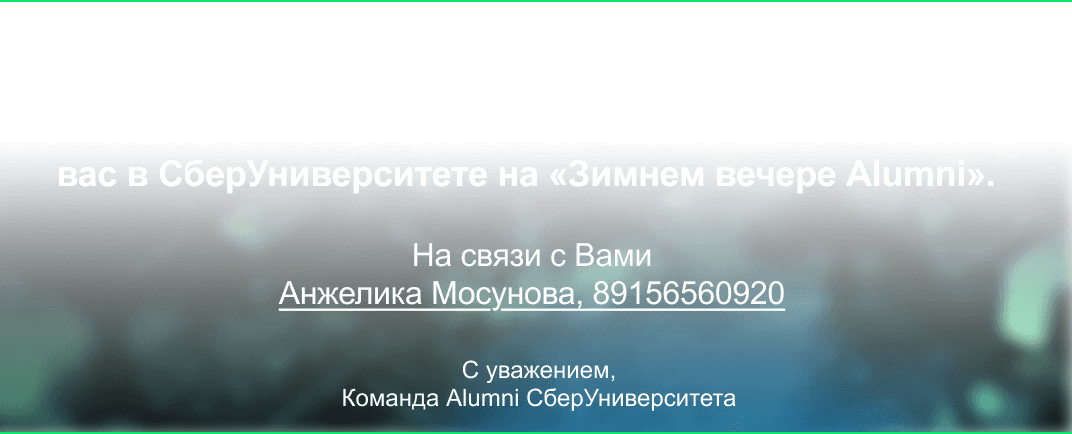
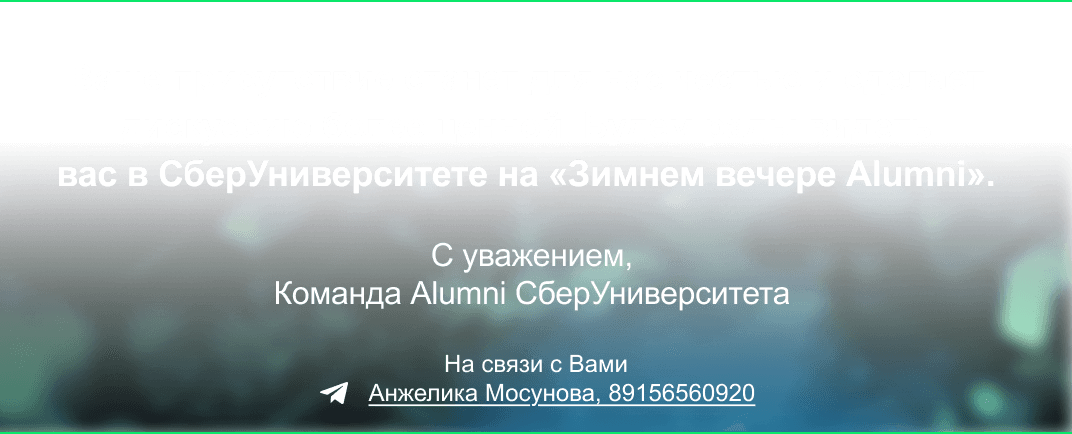
change sberuniversity-2

Changed region(s): [[0.2463, 0.5392, 0.7388, 0.7189], [0.3078, 0.8088, 0.708, 1.0], [0.8619, 0.9885, 0.8927, 1.0]]

diff --git a/sberuniversity-2/Зимняя встреча.html b/sberuniversity-2/Зимняя встреча.html
@@ -154,7 +154,7 @@
                                         <tbody>
                                         <tr>
                                             <td style="width:536px;">
-                                                <img alt="Вас ждут: Знакомство с понятием «долгие цели», концептуальная основа понятия и практические подходы к их формулированию. Работа над профессиональными долгими целями под руководством Марка Кукушкина, корпоративного антрополога, тренера, консультанта, коуча. Профессиональное взаимодействие и укрепление деловых связей в кругу единомышленников, топ-руководителей Сбера и компаний-партнёров. Выступление Татьяны Покровской, главного тренера сборной России по синхронному плаванию, вице-президента Федерации синхронного плавания России (под её руководством сборная России с 1999 года лидирует во всех соревнованиях, в которых принимает участие). Опыт участия в передовом формате бизнес-взаимодействия (во второй день)" height="auto" src="https://cp.unisender.com/ru/user_file?resource=images&user_id=5608985&name=sber-2-content-img-1.png" style="border:0;display:block;outline:none;text-decoration:none;height:auto;width:100%;font-size:13px;" width="536" />
+                                                <img alt="Вас ждут: Знакомство с понятием «долгие цели», концептуальная основа понятия и практические подходы к их формулированию. Работа над персональными долгими целями под руководством Марка Кукушкина, корпоративного антрополога, тренера, консультанта, коуча. Профессиональное взаимодействие и укрепление деловых связей в кругу единомышленников, топ-руководителей Сбера и компаний-партнёров. Выступление Татьяны Покровской, главного тренера сборной России по синхронному плаванию, вице-президента Федерации синхронного плавания России (под её руководством сборная России с 1999 года лидирует во всех соревнованиях, в которых принимает участие). Опыт участия в передовом формате бизнес-взаимодействия (во второй день)" height="auto" src="https://cp.unisender.com/ru/user_file?resource=images&user_id=5608985&name=sber-2-content-img-1.png" style="border:0;display:block;outline:none;text-decoration:none;height:auto;width:100%;font-size:13px;" width="536" />
                                             </td>
                                         </tr>
                                         </tbody>
@@ -167,7 +167,7 @@
                                         <tbody>
                                         <tr>
                                             <td style="width:536px;">
-                                                <img alt="Программа мероприятия (уточнённая программа будет направлена ближе к дате мероприятия): 13 декабря: Формирование долгих личных целей: 14:00 – 15:00-  регистрация, приветственный кофе, фотовыставка “La Forma del Coloreс” с участием автора Джампьеро Ассумма (Италия). 15:00 – 18:00 - интерактивная сессия под руководством Марка Кукушкина, Татьяны Покровской, главного тренера сборной России по синхронному плаванию и Владимира Седова, предпринимателя, основателя и совладельца компании «Аскона». 18:00 – 19:00 - фуршет, нетворкинг для установления ценных профессиональных контактов. 19:00 – 21:00 - джазовый вечер, приуроченный к 10-летию кампуса СберУниверситета. 14 декабря: Мой личный совет директоров внутри сообщества Alumni: 10:00 – 14:00 - Уникальный формат «форум-группы» для построения глубоких деловых связей. (во второй день, более узкой компанией выпускников только внешних программ, погрузимся в новый формат для нашего сообщества, который на сегодня является самым сильным «клеем» топовых бизнес-сообществ в России и мире)." height="auto" src="https://cp.unisender.com/ru/user_file?resource=images&user_id=5608985&name=sber-2-content-img-2.png" style="border:0;display:block;outline:none;text-decoration:none;height:auto;width:100%;font-size:13px;" width="536" />
+                                                <img alt="Программа мероприятия (уточнённая программа будет направлена ближе к дате мероприятия): 13 декабря: Формирование долгих личных целей. 14:00 – 15:00 регистрация, приветственный кофе, фотовыставка “La Forma del Coloreс” с участием автора Джампьеро Ассумма (Италия). 15:00 – 18:00 - интерактивная сессия под руководством Марка Кукушкина с участием Татьяны Покровской, главного тренера сборной России по синхронному плаванию и Владимира Седова, предпринимателя, основателя и совладельца компании «Аскона». 18:00 – 19:00 фуршет, нетворкинг для установления ценных профессиональных контактов. 19:00 – 21:00 - джазовый вечер, приуроченный к 10-летию кампуса СберУниверситета. 14 декабря: Мой личный совет директоров внутри сообщества Alumni. 10:00 – 14:00 Уникальный формат «форум-группы» для построения глубоких деловых связей. (во второй день, более узкой компанией выпускников только внешних программ, погрузимся в новый формат для нашего сообщества, который на сегодня является самым сильным «клеем» топовых бизнес-сообществ в России и мире)." height="auto" src="https://cp.unisender.com/ru/user_file?resource=images&user_id=5608985&name=sber-2-content-img-2.png" style="border:0;display:block;outline:none;text-decoration:none;height:auto;width:100%;font-size:13px;" width="536" />
                                             </td>
                                         </tr>
                                         </tbody>
@@ -190,12 +190,22 @@
                                 </td>
                             </tr>
                             <tr>
-                                <td align="center" style="font-size:0px;word-break:break-word;padding:0px 61px;">
-                                    <div style="font-family:Arial, sans-serif;font-size:18px;font-weight:700;line-height:24px;text-align:center;color:#FFFFFF;">ССЫЛКА ДЛЯ&nbsp;РЕГИСТРАЦИИ:<br/><a href="https://t.me/Mr_Alumni_bot?start=2812196" target="_blank" style="color:#FFFFFF;">https://t.me/Mr_Alumni_bot?start=2812196</a></div>
+                                <td align="center" style="font-size:0px;word-break:break-word;">
+                                    <table border="0" cellpadding="0" cellspacing="0" role="presentation" style="border-collapse:collapse;border-spacing:0px;">
+                                        <tbody>
+                                        <tr>
+                                            <td style="width:250px;">
+                                                <a href="https://t.me/Mr_Alumni_bot?start=2812196" target="_blank">
+                                                    <img alt="Нажмите здесь, чтобы зарегистрироваться" height="auto" src="https://cp.unisender.com/ru/user_file?resource=images&user_id=5608985&name=sber-2-button-1.png" style="border:0;display:block;outline:none;text-decoration:none;height:auto;width:100%;font-size:13px;" width="250" />
+                                                </a>
+                                            </td>
+                                        </tr>
+                                        </tbody>
+                                    </table>
                                 </td>
                             </tr>
                             <tr>
-                                <td align="center" style="font-size:0px;word-break:break-word;padding:39px 0 44px;">
+                                <td align="center" style="font-size:0px;word-break:break-word;padding:31px 0 44px;">
                                     <table border="0" cellpadding="0" cellspacing="0" role="presentation" style="border-collapse:collapse;border-spacing:0px;">
                                         <tbody>
                                         <tr>
@@ -213,7 +223,9 @@
                                         <tbody>
                                         <tr>
                                             <td style="width:536px;">
-                                                <img alt="Ваше присутствие станет для нас честью и сделает дискуссию более ценной. Будем рады видеть вас в СберУниверситете на «Зимнем вечере Alumni». На связи с Вами Анжелика Мосунова, 89156560920. С уважением, Команда Alumni СберУниверситета" height="auto" src="https://cp.unisender.com/ru/user_file?resource=images&user_id=5608985&name=sber-2-content-img-4.png" style="border:0;display:block;outline:none;text-decoration:none;height:auto;width:100%;font-size:13px;" width="536" />
+                                                <a href="https://t.me/AngelikaMosunova">
+                                                    <img alt="Ваше присутствие станет для нас честью и сделает дискуссию более ценной. Будем рады видеть вас в СберУниверситете на «Зимнем вечере Alumni». С уважением, Команда Alumni СберУниверситета. На связи с Вами Анжелика Мосунова, 89156560920. Нажмите здесь, чтобы связаться с помощью Telegram." height="auto" src="https://cp.unisender.com/ru/user_file?resource=images&user_id=5608985&name=sber-2-content-img-4.png" style="border:0;display:block;outline:none;text-decoration:none;height:auto;width:100%;font-size:13px;" width="536" />
+                                                </a>
                                             </td>
                                         </tr>
                                         </tbody>
